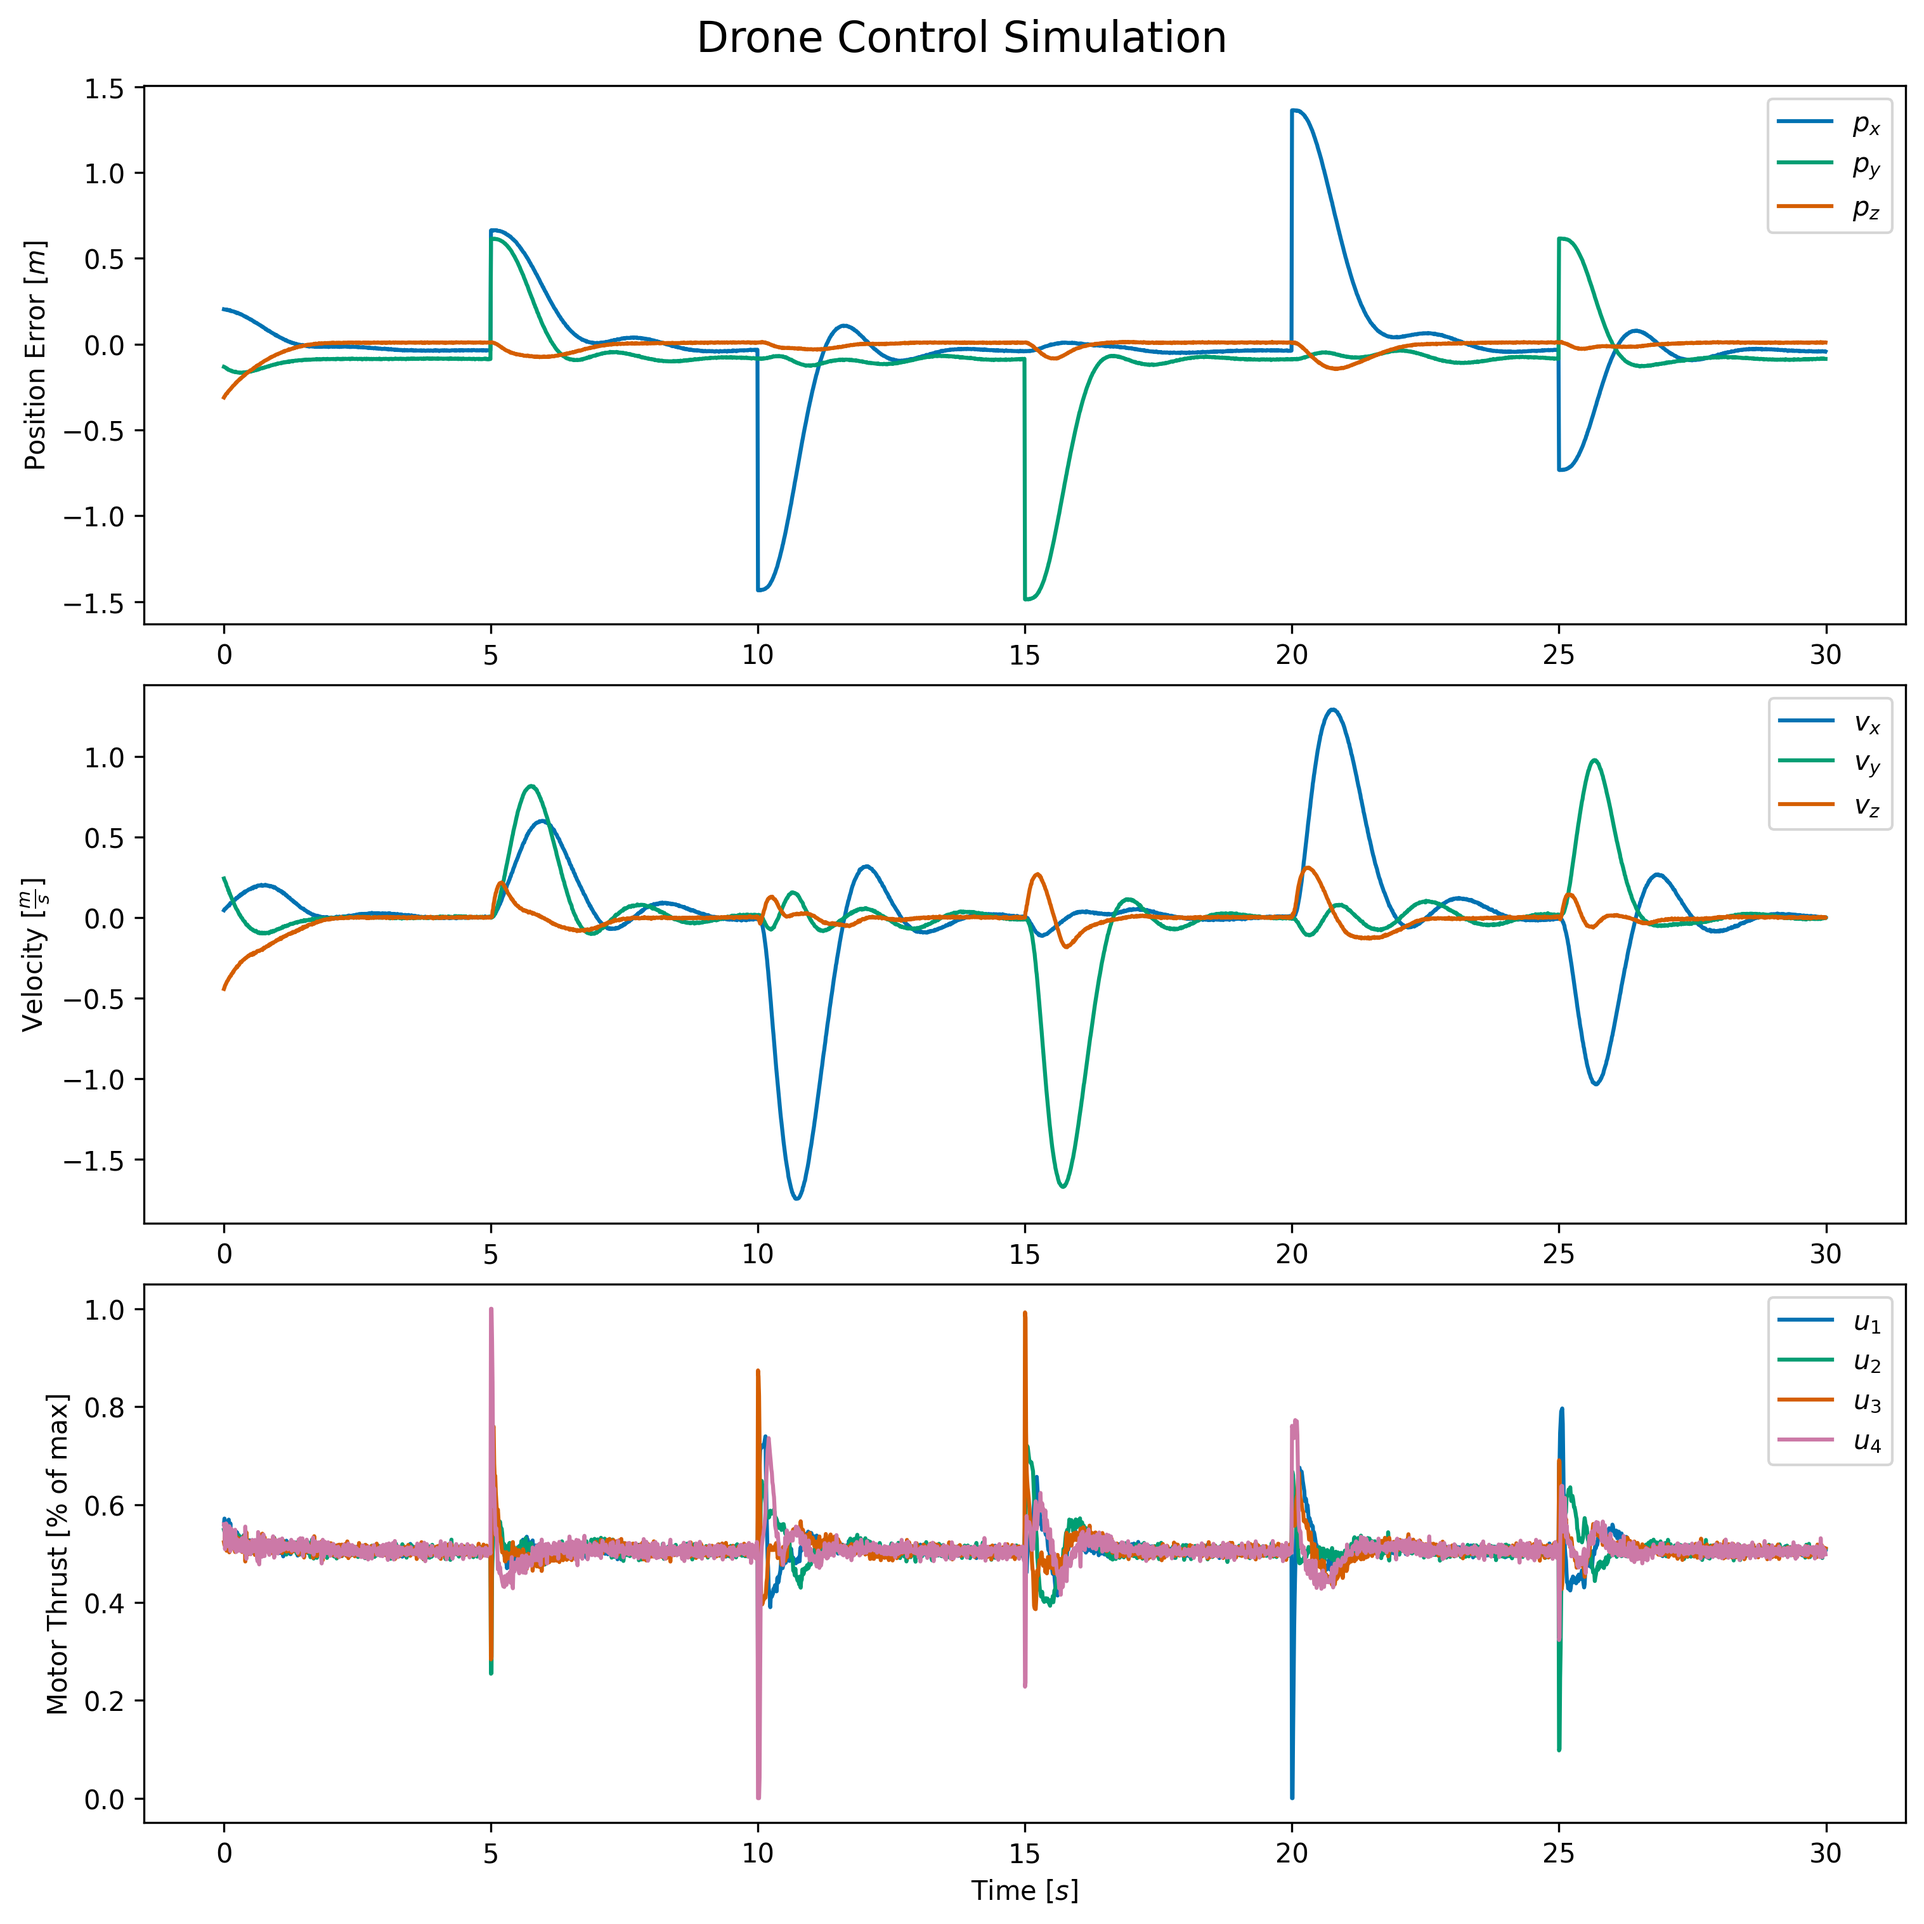
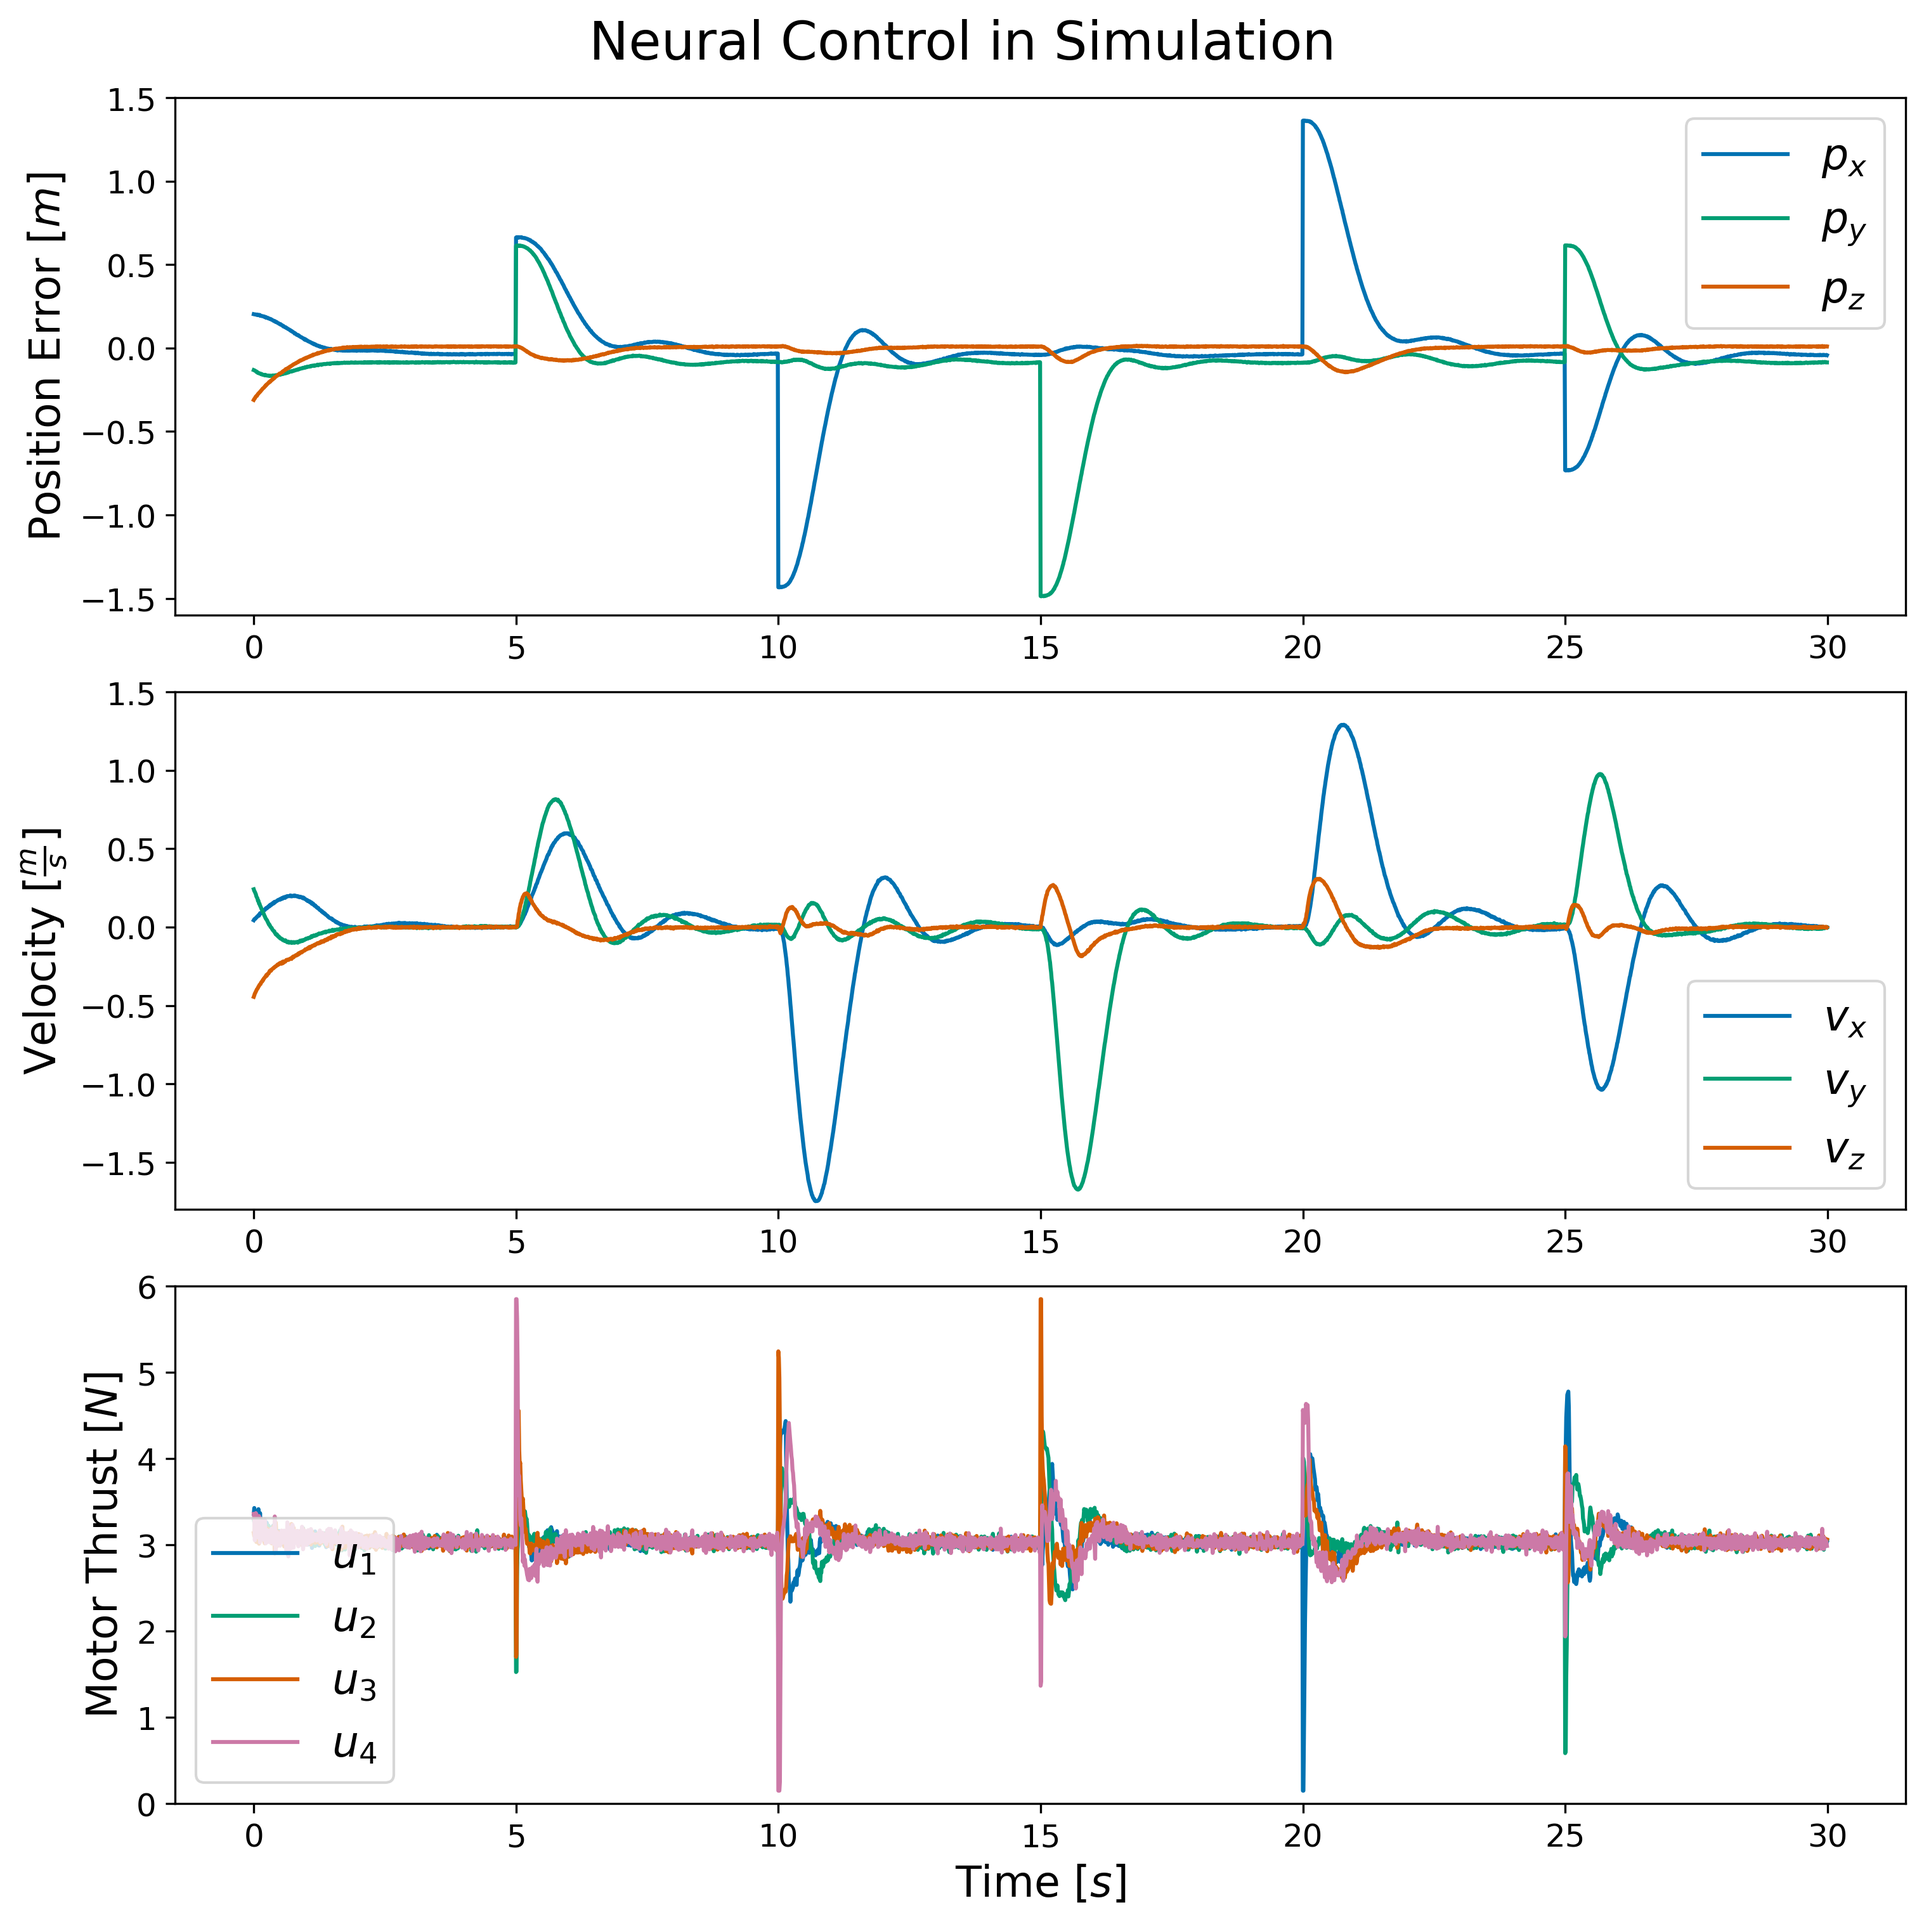
Add newest plots

Changed region(s): [[0.0, 0.0, 0.9914, 0.9914], [0.0, 0.4338, 0.031, 0.5577], [0.9604, 0.7436, 0.9914, 0.7746]]

diff --git a/resources/plot/plot_network_observations_sindre.py b/resources/plot/plot_network_observations_sindre.py
@@ -84,7 +84,7 @@ if __name__ == "__main__":
     lin_vel_interp = f_lin_vel(time_points)
     ori_interp = f_ori(time_points)
     ang_vel_interp = f_ang_vel(time_points)
-    m_thrust_interp = f_m_thrust(time_points)
+    m_thrust_interp = f_m_thrust(time_points)*6
 
     k_t = 0.000015
 
@@ -92,6 +92,7 @@ if __name__ == "__main__":
 
     plt.rcParams['text.usetex'] = False
     plt.rcParams['figure.figsize'] = (10, 10)  # Width, height in inches
+    plt.style.use("seaborn-v0_8-colorblind")
 
     # Create a time array that starts at 0 for plotting purposes
     plotting_time = time_points - T_start + 0.8
@@ -121,25 +122,36 @@ if __name__ == "__main__":
     # elif config == "quad":
     #     axs[2,0].legend([r"$u_1$", r"$u_2$", r"$u_3$", r"$u_4$"])
 
-    fig, axs = plt.subplots(3)
+    # Add these with your other plt.rcParams settings
+    plt.rcParams['font.size'] = 12  # Base font size
+    plt.rcParams['axes.titlesize'] = 14  # Size for axis titles
+    plt.rcParams['axes.labelsize'] = 16  # Size for x and y labels
+    plt.rcParams['legend.fontsize'] = 12 # Size for legends
+
+
+    fig, axs = plt.subplots(3, constrained_layout=True)
     axs[0].plot(plotting_time, pos_interp.T)
     axs[0].legend([r"$p_x$", r"$p_y$", r"$p_z$"])
     axs[0].set_ylabel(r"Position Error [$m$]")
-    #axs[0].xlim(0, 30)
+    axs[0].set_ylim(-1.6, 1.5)
+    axs[0].set_yticks(np.arange(-1.5, 1.6, 0.5))
 
     axs[1].plot(plotting_time, lin_vel_interp.T)
     axs[1].legend([r"$v_x$", r"$v_y$", r"$v_z$"])
     axs[1].set_ylabel(r"Velocity [$\frac{m}{s}$]")
+    axs[1].set_ylim(-1.8, 1.5)
+    axs[1].set_yticks(np.arange(-1.5, 1.6, 0.5))
     #axs[2].xlim(0, 30)
 
     axs[2].plot(plotting_time, m_thrust_interp.T)
     axs[2].set_xlabel(r"Time [$s$]")
-    axs[2].set_ylabel(r"Motor Thrust [% of max]")
+    axs[2].set_ylabel(r"Motor Thrust [$N$]")
     axs[2].legend([r"$u_1$", r"$u_2$", r"$u_3$", r"$u_4$"])
+    axs[2].set_ylim(0, 6)
     #axs[2].xlim(0, 30)
 
 
-    fig.suptitle("Neural control in live flight", fontsize=16)
+    fig.suptitle("Neural Control in Live Flight", fontsize=20)
 
 
     plt.savefig(exp_name + "_plot.png", dpi=300, bbox_inches='tight')

diff --git a/aerial_gym/examples/rl_games_example/rl_env_closed_loop_example.py b/aerial_gym/examples/rl_games_example/rl_env_closed_loop_example.py
@@ -135,6 +135,11 @@ if __name__ == "__main__":
         # You can use the last subplot for something else or leave it empty
         # For example, adding setpoint tracking visualization
         # axs[2,1].plot(...)
+        plt.rcParams['font.size'] = 12  # Base font size
+        plt.rcParams['axes.titlesize'] = 14  # Size for axis titles
+        plt.rcParams['axes.labelsize'] = 16  # Size for x and y labels
+        plt.rcParams['legend.fontsize'] = 16  # Size for legends
+
 
         fig, axs = plt.subplots(3, constrained_layout=True)
 
@@ -142,19 +147,22 @@ if __name__ == "__main__":
         axs[0].plot(time_in_seconds, state_array[:, 0:3])
         axs[0].legend([r"$p_x$", r"$p_y$", r"$p_z$"])
         axs[0].set_ylabel(r"Position Error [$m$]")
+        axs[0].set_ylim(-1.6, 1.5)
         # Velocity plot
         axs[1].plot(time_in_seconds, state_array[:, 9:12])
         axs[1].legend([r"$v_x$", r"$v_y$", r"$v_z$"])
         axs[1].set_ylabel(r"Velocity [$\frac{m}{s}$]")
+        axs[1].set_ylim(-1.8, 1.5)
         # Actions plot - motor thrust
-        action_array = np.clip(action_array, -1, 1)
-        axs[2].plot(time_in_seconds, (action_array+1)/2)
+        action_array = np.clip(action_array, -0.95, 0.95)
+        axs[2].plot(time_in_seconds, (action_array*3) + 3)
         axs[2].set_xlabel(r"Time [$s$]")  # Changed from steps to s
-        axs[2].set_ylabel(r"Motor Thrust [% of max]")
+        axs[2].set_ylabel(r"Motor Thrust [$N$]")
         axs[2].legend([r"$u_1$", r"$u_2$", r"$u_3$", r"$u_4$"])
+        axs[2].set_ylim(0, 6)
 
         # Add a title to the figure
-        fig.suptitle("Drone Control Simulation", fontsize=16)
+        fig.suptitle("Neural Control in Simulation", fontsize=20)
 
         # Save with high resolution
         plt.savefig("simulation_plots.png", dpi=300, bbox_inches='tight')
